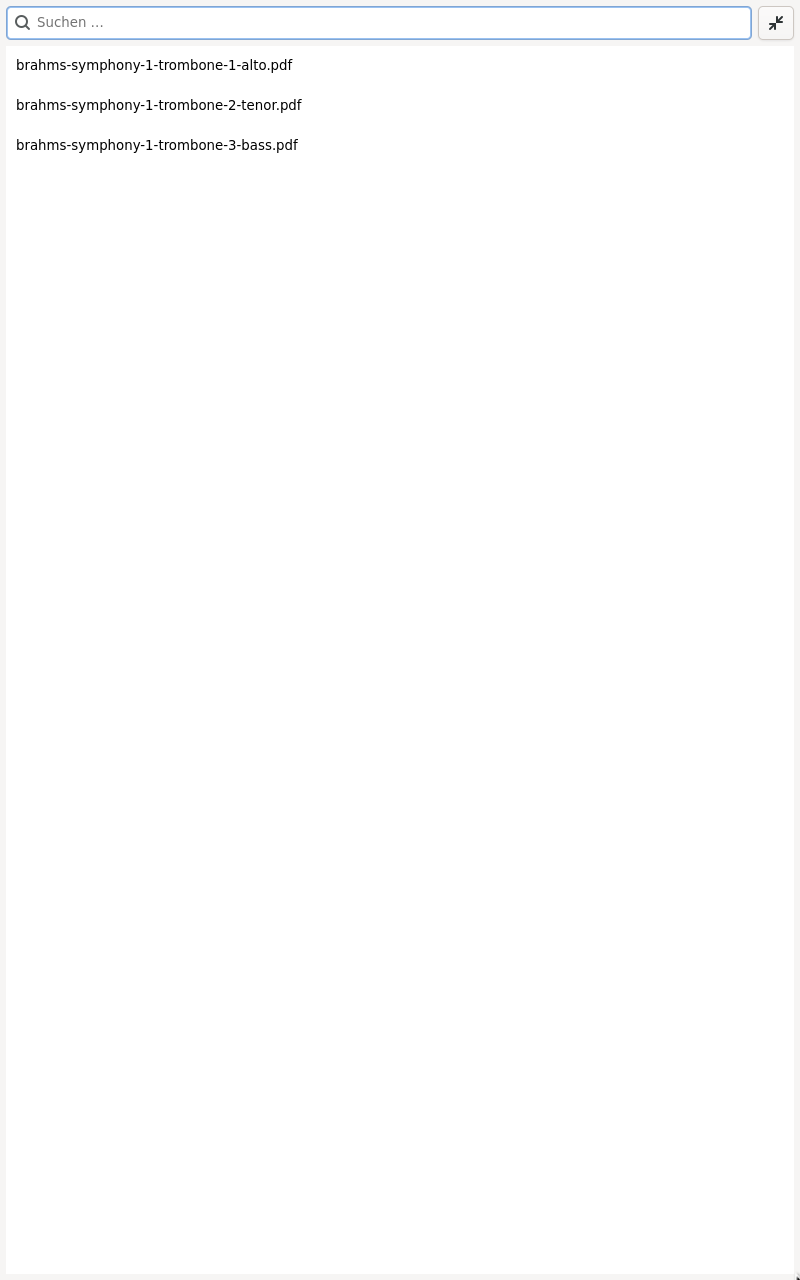
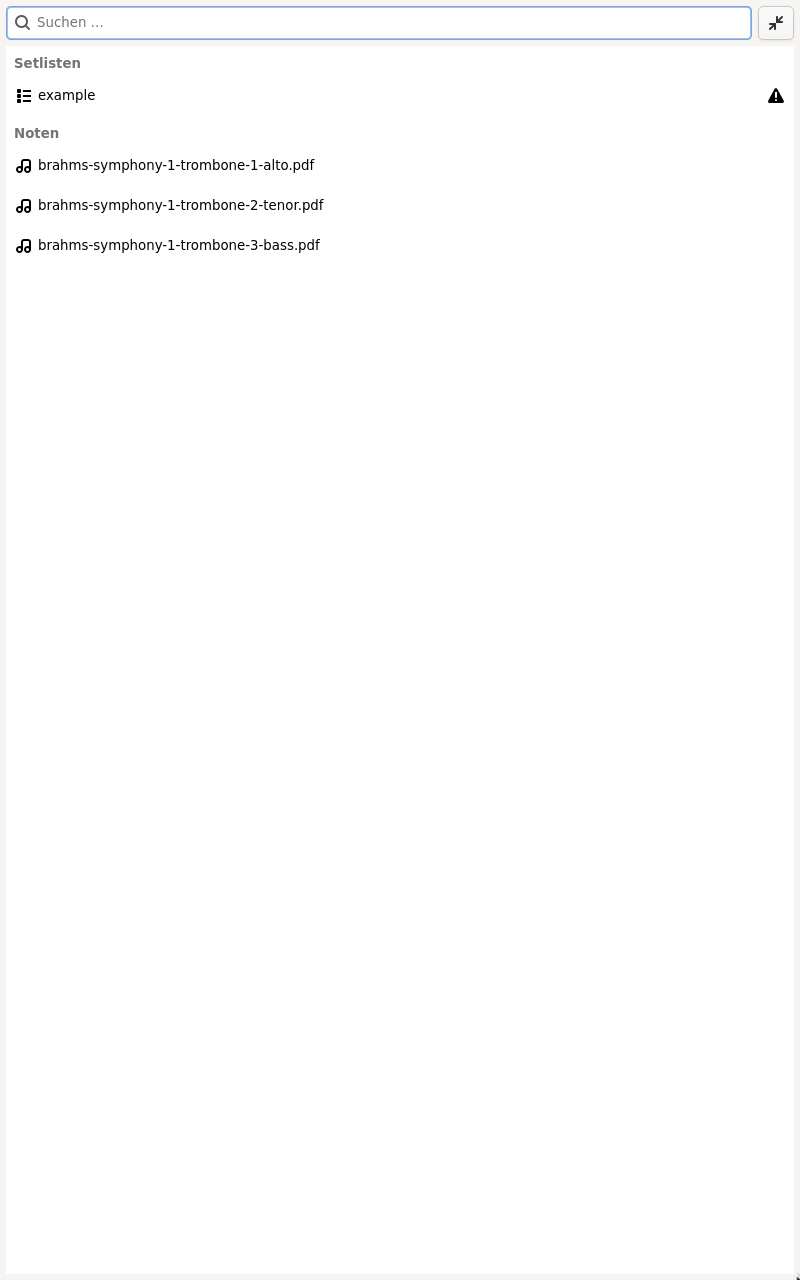
Setlists: document the feature

Changed region(s): [[0.0, 0.0312, 0.2188, 0.2188], [0.2188, 0.0312, 0.4062, 0.2188]]

diff --git a/README.md b/README.md
@@ -12,9 +12,9 @@ left to external tools (git-annex, Syncthing).
 
 ## Screenshots
 
-| Library | Freehand annotation |
+| Library | Setlist |
 | --- | --- |
-| ![Library](assets/screenshots/library.png) | ![Annotation](assets/screenshots/annotation.png) |
+| ![Library](assets/screenshots/library.png) | ![Setlist](assets/screenshots/setlist.png) |
 
 | Half-page turn with tuner | Touch overlay (middle tap) |
 | --- | --- |
@@ -207,8 +207,6 @@ annotation types, including hyperlinks.)
 
 ## Setlists
 
-*Planned — documented here for review; not yet implemented.*
-
 A setlist is an ordered programme for a rehearsal or concert: a list of
 pieces you turn through as one, so a foot-pedal page turn at the end of one
 part carries straight on to the top of the next. It doubles as a record of
@@ -259,10 +257,11 @@ tap, for the rehearsal room.
 
 **When something is missing.** If a file a setlist names is not there — a
 typo, a moved score, or one your sync has not brought over yet — frack
-warns you up front: opening the setlist shows which entries are missing,
-well before you are on stage. Turn onto a missing entry while playing and you get a
-placeholder page naming the file, not a crash and not a silent skip, and
-you can page right past it.
+warns you up front: the library marks such a setlist with a warning icon,
+and opening it lists the missing entries, well before you are on stage.
+Turn onto a missing entry while playing and you get a placeholder page
+naming the file, not a crash and not a silent skip, and you can page right
+past it.
 
 ## Roadmap
 

diff --git a/CHANGELOG.md b/CHANGELOG.md
@@ -7,6 +7,27 @@ and this project adheres to [Semantic Versioning](https://semver.org/spec/v2.0.0
 
 ## [Unreleased]
 
+### Added
+
+- Setlists: ordered programmes for a rehearsal or concert, kept as plain
+  `.txt` files in `setlists_dir` (default `root_dir/setlists`) — one score
+  per line relative to `root_dir`, `#` for a comment or section, and an
+  optional `#page=` range (e.g. `#page=5-6`, `#page=12-`) to pin an entry to
+  part of a PDF without cutting the file. They appear in their own section of
+  the library, most recent first. Opening one turns across its pieces as if
+  they were a single score — a foot pedal plays the whole programme straight
+  through — while the back button drops to the piece list to jump around in a
+  rehearsal, and the overlay shows your place in the programme. Missing or
+  unreadable entries show a placeholder you can turn past, flagged up front by
+  a warning banner when the setlist opens and a badge in the library.
+
+### Fixed
+
+- A rare crash ("double free or corruption") while rendering pages: Poppler
+  is not thread-safe, so the background thumbnail workers could corrupt the
+  heap when the main thread was rendering at the same time (most likely with
+  large scanned scores). All Poppler access is now serialized.
+
 ## [0.3.0] - 2026-07-26
 
 ### Added
